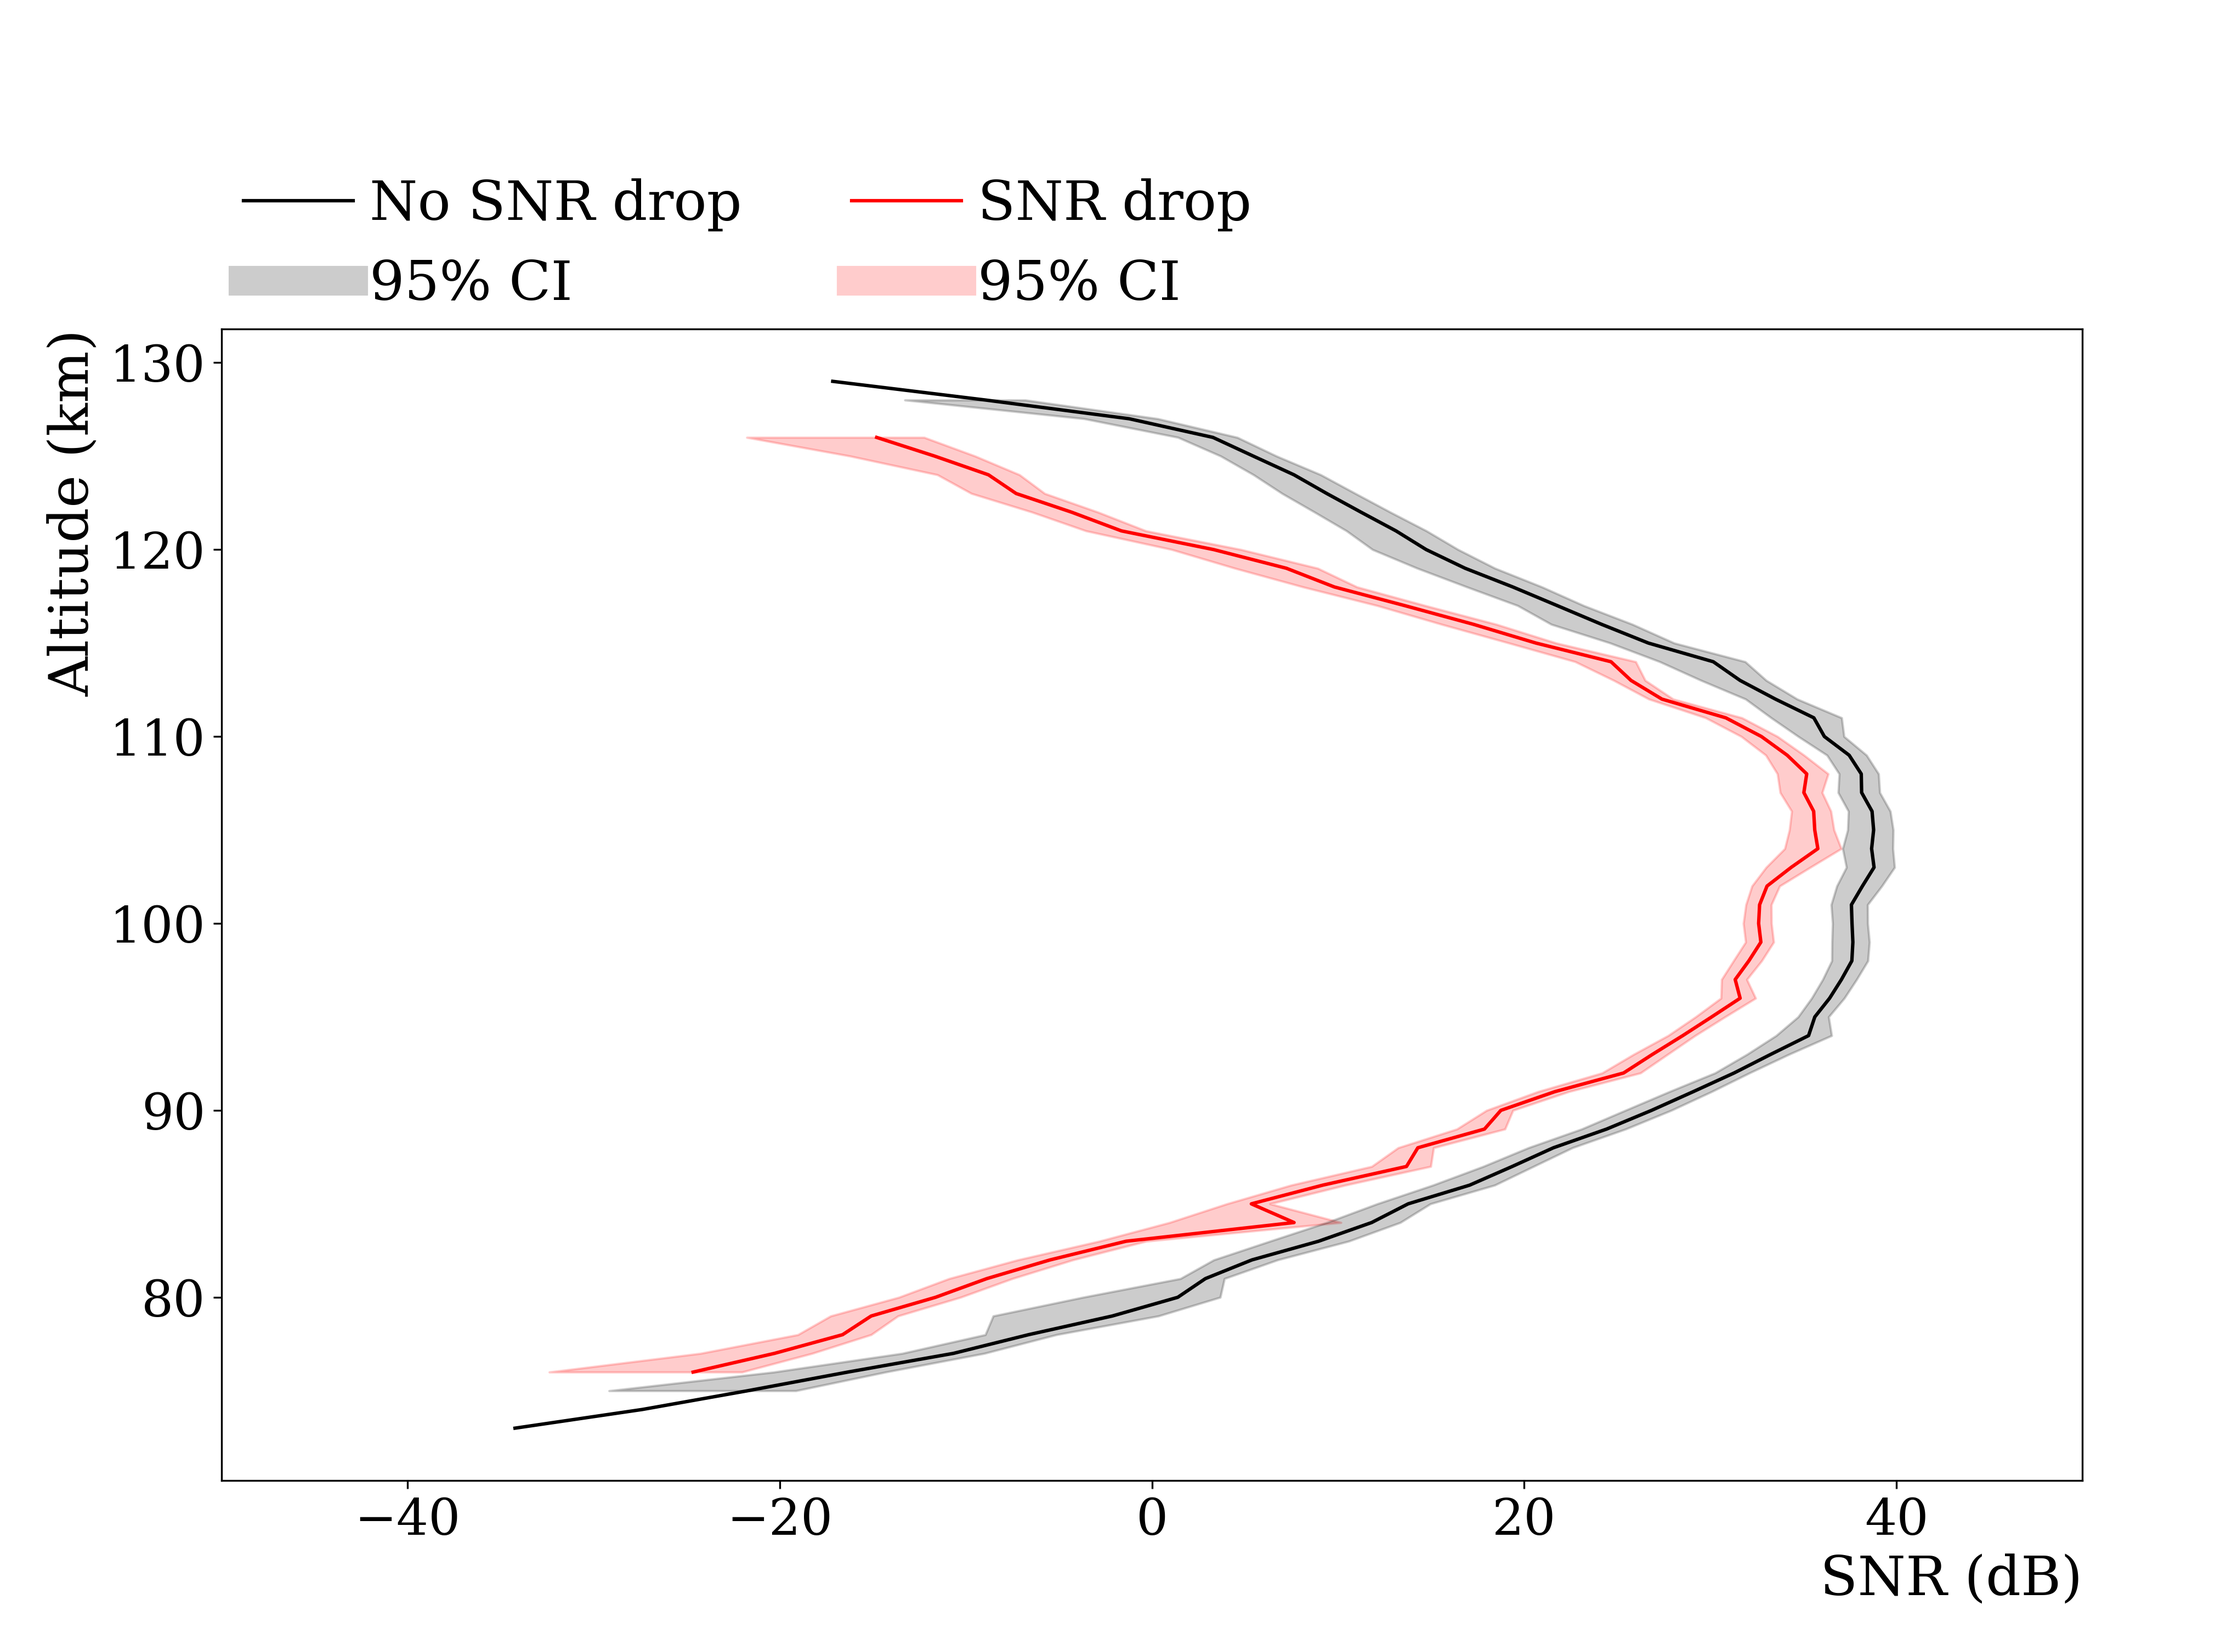
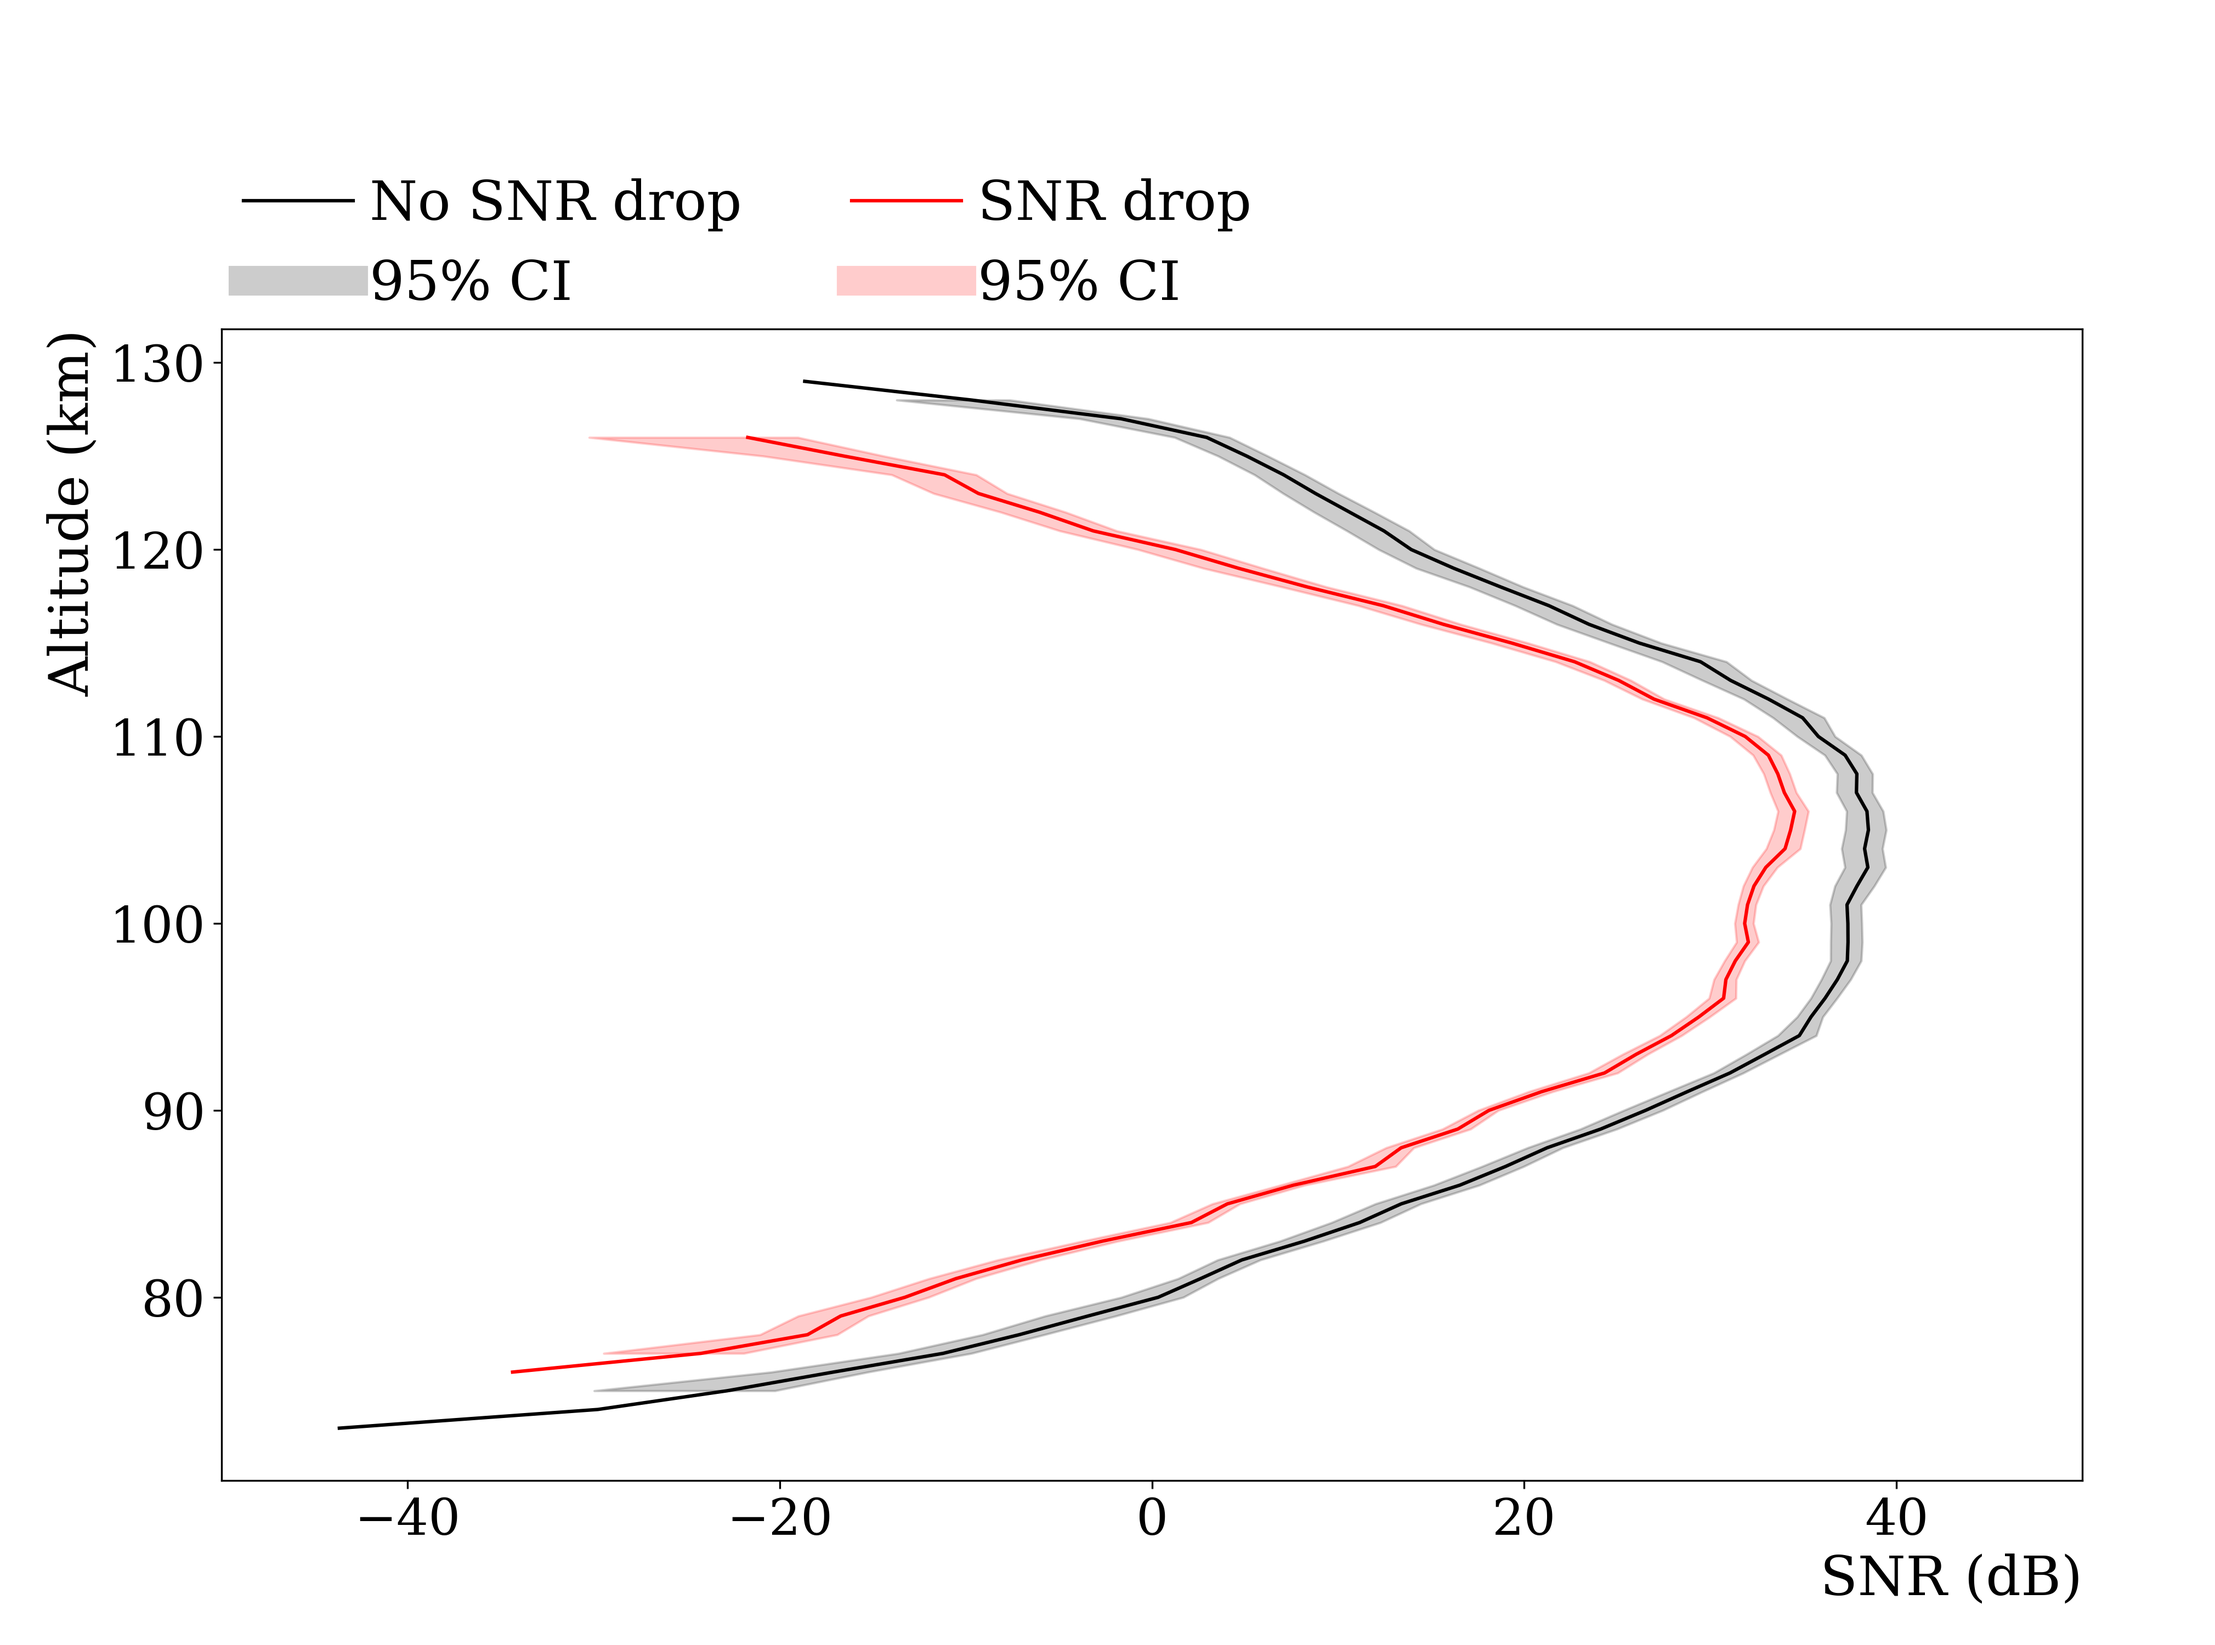
mfyutjmt

Changed region(s): [[0.2184, 0.217, 0.8735, 0.868]]

diff --git a/compare.py b/compare.py
@@ -238,17 +238,17 @@ if True:
     all_nodrop = all_nodrop[1:,:]
     # remove outlier by zeroing out the top 3 values at each altitude
     for i in range(61):
-        for j in range(5):
+        for j in range(10):
             max_arg = np.argmax(all_drop[:,i])
             all_drop[max_arg,i] = 0
             max_arg = np.argmax(all_nodrop[:,i])
             all_nodrop[max_arg,i] = 0
     print(all_drop.shape)
     print(all_nodrop.shape)
-    mean_drop = np.mean(all_drop, axis=0)
-    mean_nodrop = np.mean(all_nodrop, axis=0)
-    se_drop = 1.96*np.std(all_drop, axis=0)/np.sqrt(len(all_drop)-5)
-    se_nodrop = 1.96*np.std(all_nodrop, axis=0)/np.sqrt(len(all_drop)-5)
+    mean_drop = np.sum(all_drop, axis=0)/(len(all_drop)-10)
+    mean_nodrop = np.sum(all_nodrop, axis=0)/(len(all_nodrop)-10)
+    se_drop = 1.96*np.std(all_drop, axis=0,ddof=10)/np.sqrt(len(all_drop)-10)
+    se_nodrop = 1.96*np.std(all_nodrop, axis=0,ddof=10)/np.sqrt(len(all_drop)-10)
     fig = plt.figure(figsize=(fig_width,10))
     ax = fig.add_axes([0.1,0.1,0.84,0.7])
     ax.plot(10*np.log10(mean_drop), alt, label='Drop', color=c_d, linestyle=ls_d)
